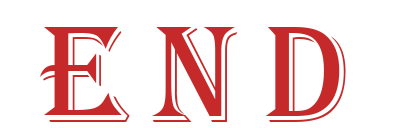
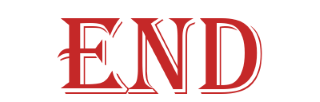
Endフォントを作成した

diff --git a/GameTaisyou2-4c/GameTaisyou2-4c/TitleScene.cpp b/GameTaisyou2-4c/GameTaisyou2-4c/TitleScene.cpp
@@ -18,6 +18,7 @@ Title::Title() {
 	Title_font= LoadGraph("images/TITLE.png");
 	Start_font= LoadGraph("images/START.png");
 	Debug_font= LoadGraph("images/null.png");
+	End_font = LoadGraph("images/End.png");
 
 	click_sound = LoadSoundMem("sound/click.mp3");
 	CursorSE = LoadSoundMem("sound/Cursor.mp3");
@@ -82,7 +83,7 @@ void Title::Draw() const{
 	DrawRotaGraph(SCREEN_WIDTH / 2, 200, 1, 0, Title_font, TRUE);
 	if (Tutorial_flg == false) {
 		DrawGraph(440, 360, Start_font, TRUE);
-		DrawGraph(440, 460, Debug_font, TRUE);
+		DrawGraph(475, 460, End_font, TRUE);
 		DrawGraph(400, 360 + select * 100, select_image, TRUE);
 	}
 	else {

diff --git a/GameTaisyou2-4c/GameTaisyou2-4c/TitleScene.h b/GameTaisyou2-4c/GameTaisyou2-4c/TitleScene.h
@@ -21,6 +21,7 @@ private:
 	int Title_font;
 	int Start_font;
 	int Debug_font;
+	int End_font;
 
 	int CursorSE;
 	int TitleBGM;
